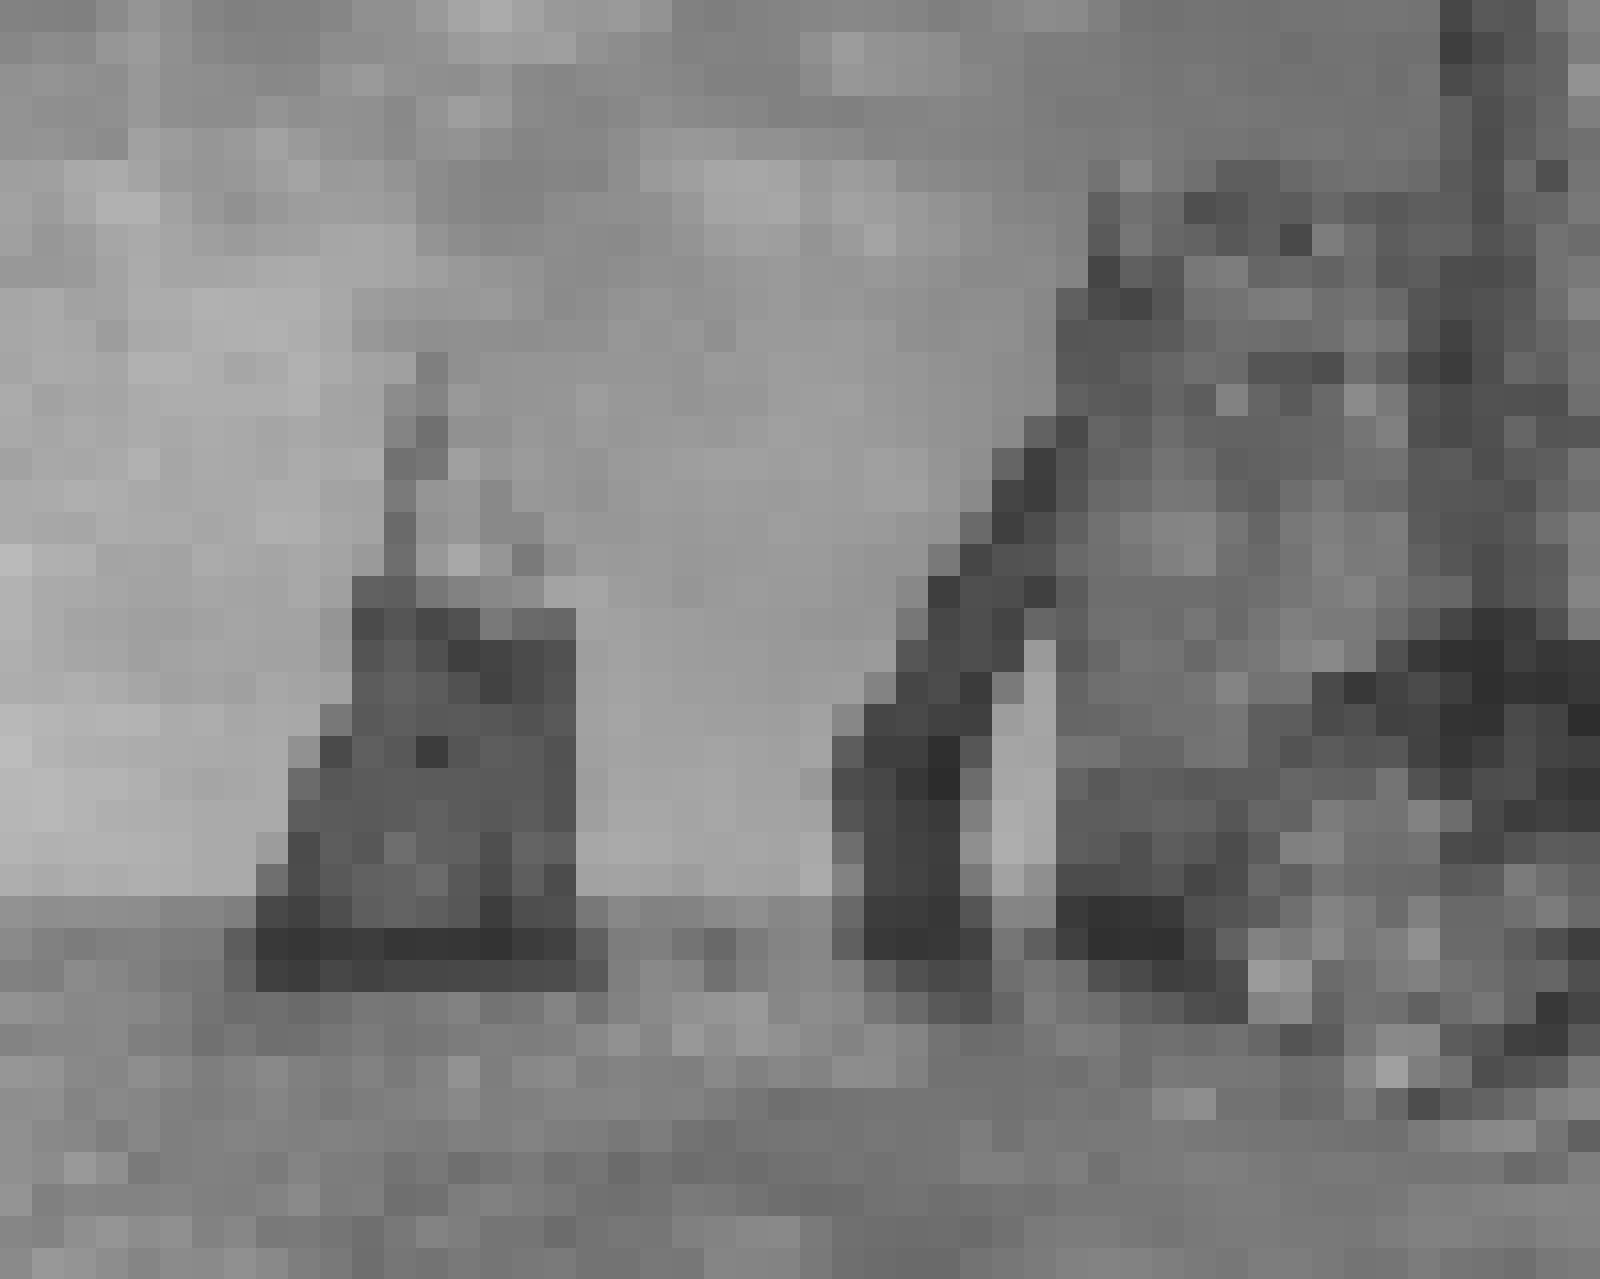
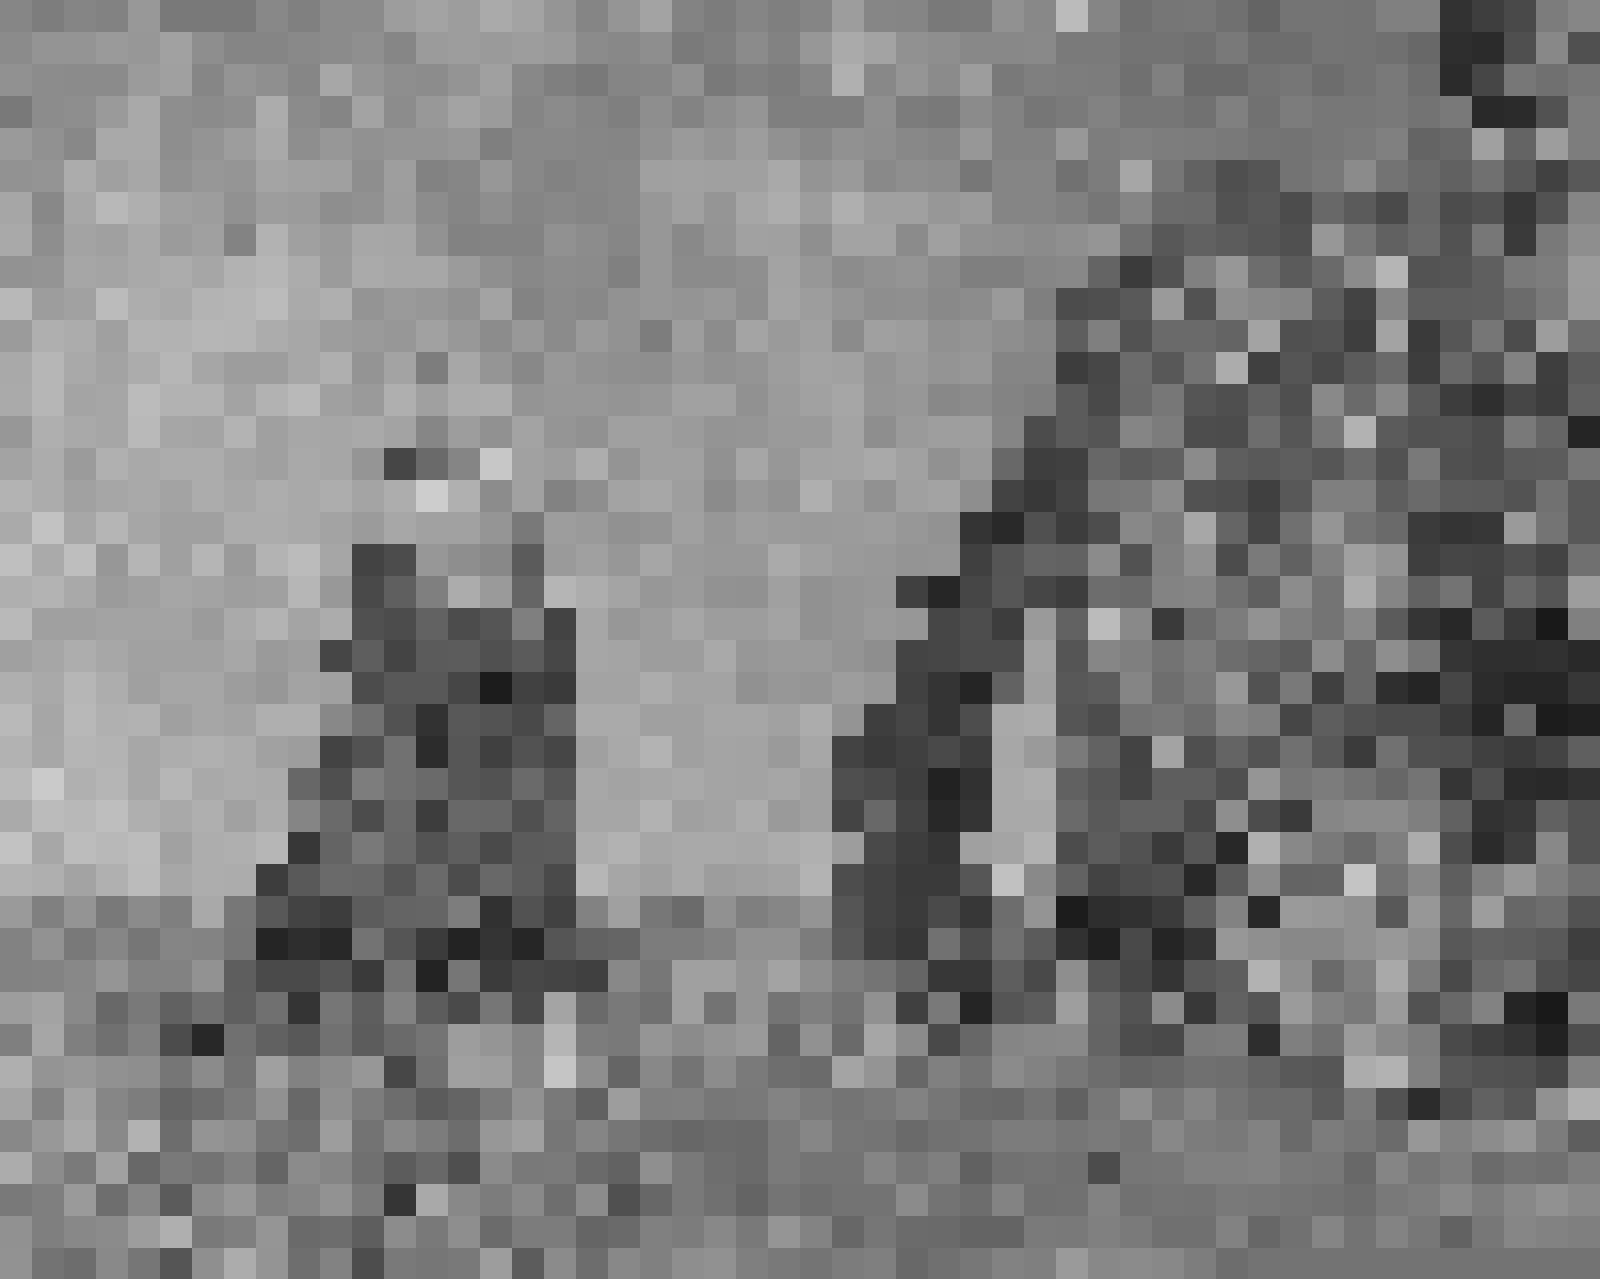
Fixing second last row bug with sampled algorithm

diff --git a/src/main/python/utils.py b/src/main/python/utils.py
@@ -119,21 +119,14 @@ def graphite_smp(input_path, output_path, bfactor, scale=False):
     w, h = im.size
     bsize = w // bfactor
     print("Processing image...")
-    lasth = 0 
-    for a in range(bsize, h, bsize):
-        lastw = 0
-        for b in range(bsize, w, bsize):
-            graphite_smp_box(im, lastw, b, lasth, a)
-            lastw = b
-        if lastw < w:
-            graphite_smp_box(im, lastw, w, lasth, a)
-        lasth = a
-    if lasth < h:
-        lastw = 0
-        for b in range(bsize, w, bsize):
-            graphite_smp_box(im, lastw, b, lasth, h)
-        if lastw + bsize <= w:
-            graphite_smp_box(im, lastw, w, lasth, h)
+    for a in range(0, h, bsize):
+        for b in range(0, w, bsize):
+            if (a + bsize <= h) and (b + bsize <= w):
+                graphite_smp_box(im, b, b + bsize, a, a + bsize)
+            elif (b + bsize <= h):
+                graphite_smp_box(im, b, b + bsize, a, h)
+            else:
+                graphite_smp_box(im, b, w, a, h)
     print("Processing complete!")
     print("Saving image...")
     im.save(output_path, "PNG")
